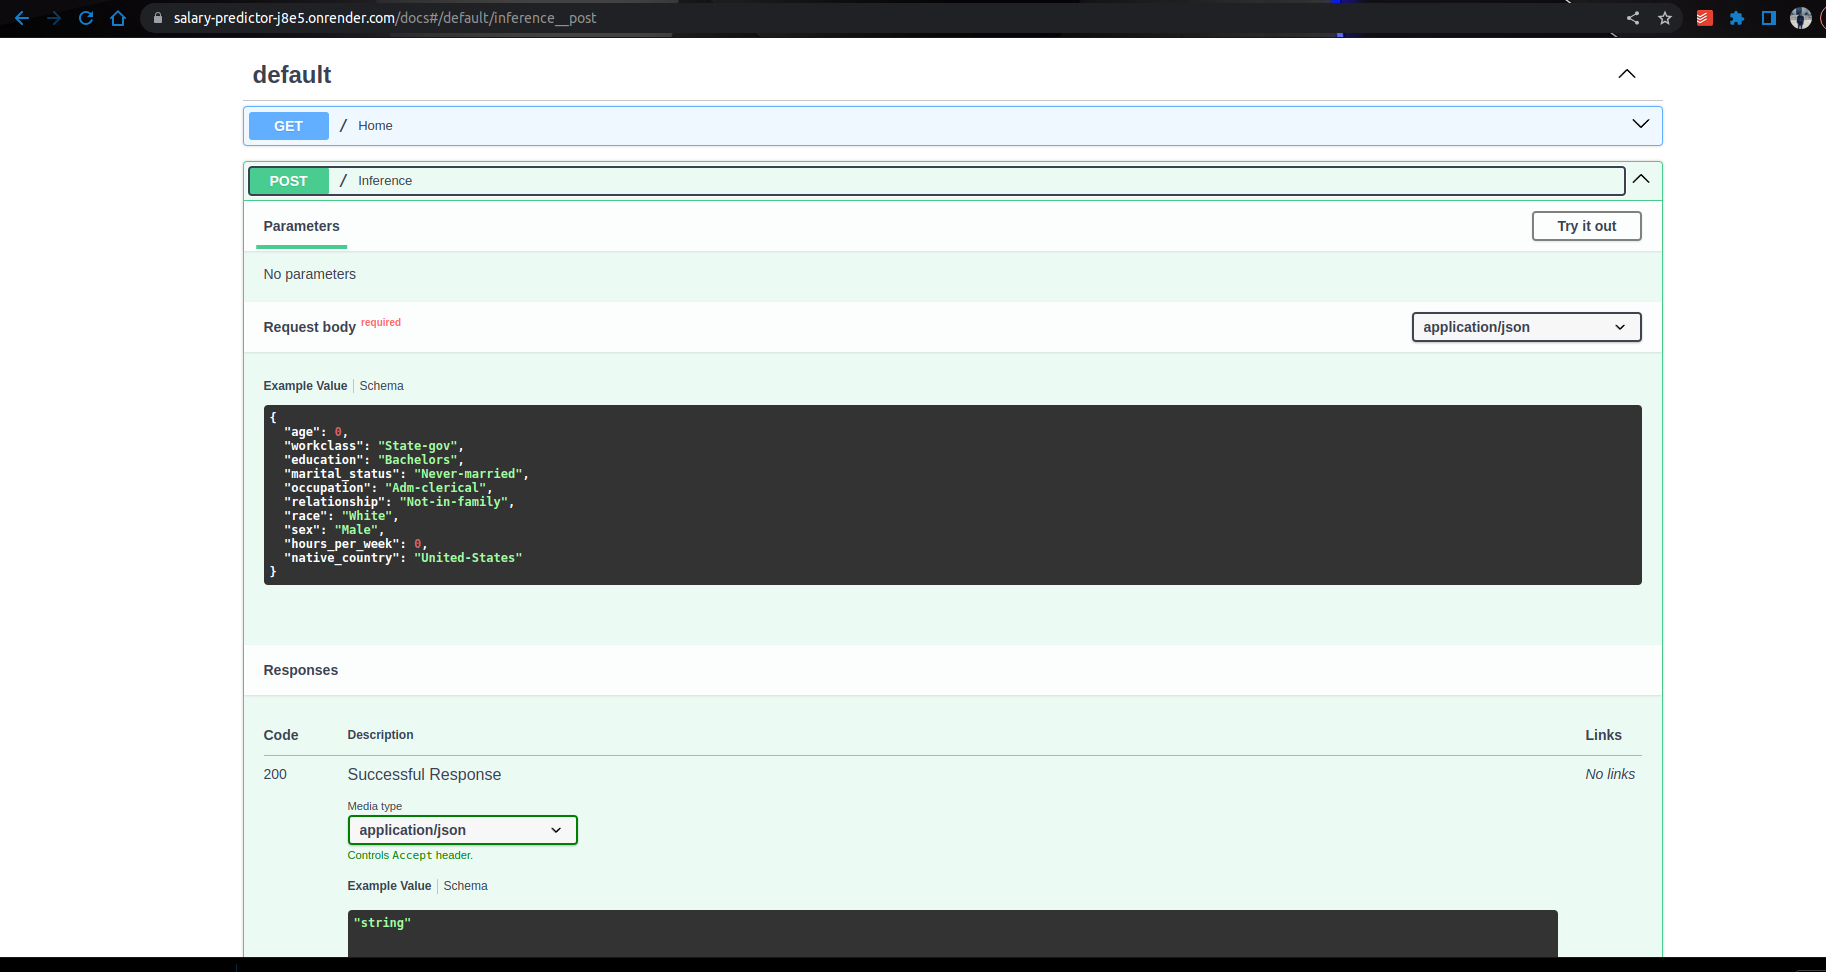
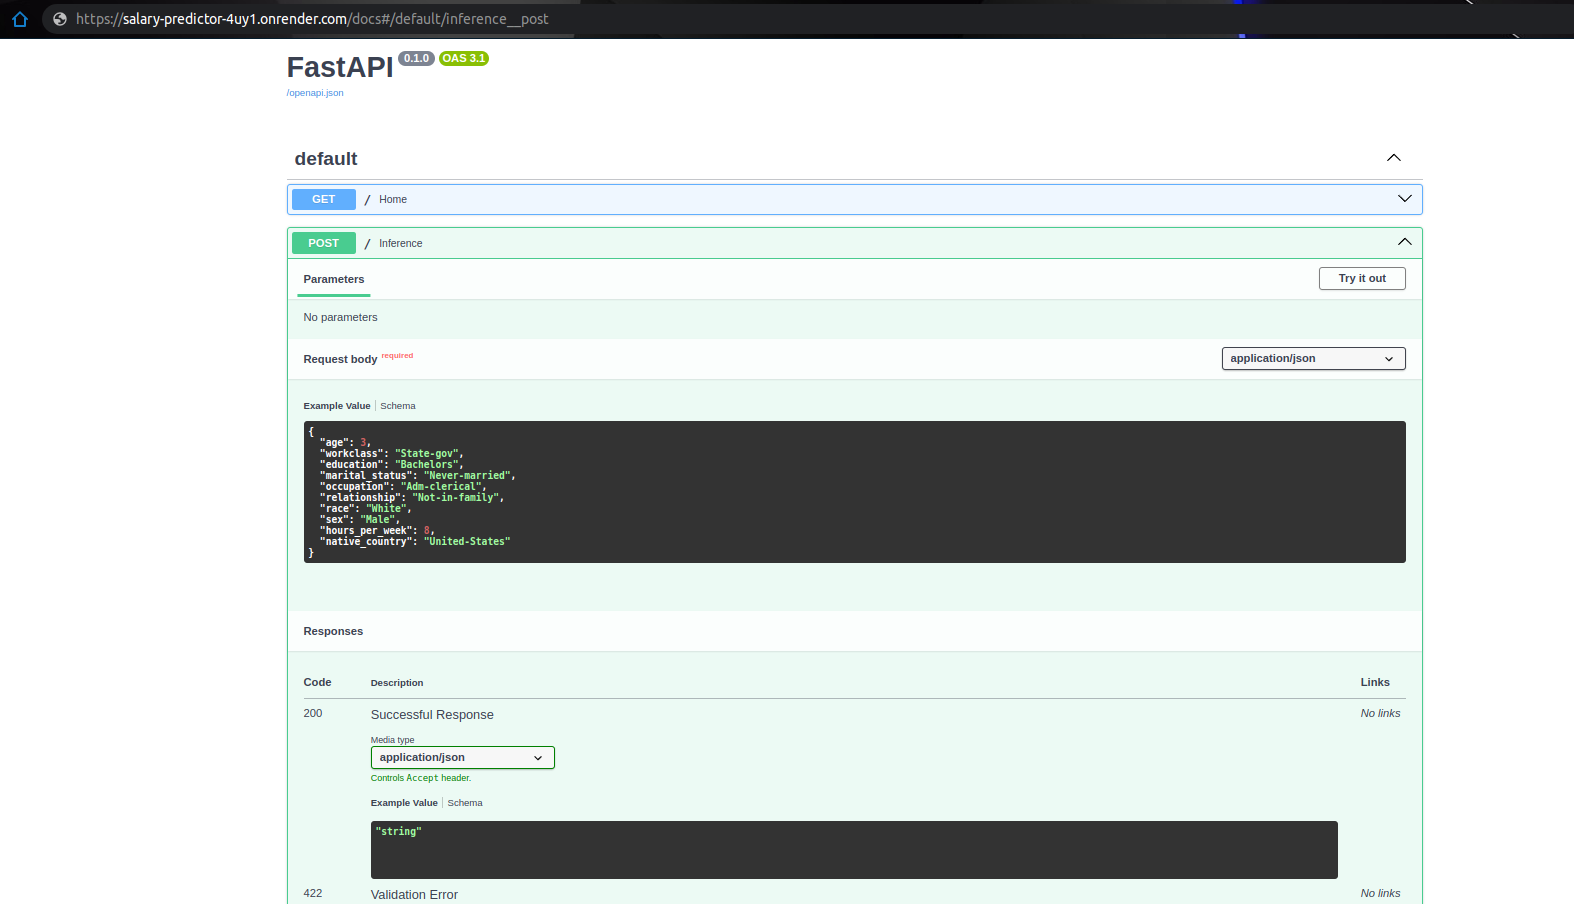
update project

diff --git a/main.py b/main.py
@@ -1,7 +1,7 @@
 # Put the code for your API here.
 
 from fastapi import FastAPI
-from pydantic import BaseModel
+from pydantic import BaseModel, Field
 from typing import Literal
 import src.utils as utils
 import pandas as pd
@@ -9,7 +9,7 @@ from joblib import load
 
 
 class User(BaseModel):
-    age: int
+    age: int = Field(examples=[30,40,65])
     workclass: Literal[
         'State-gov', 'Self-emp-not-inc', 'Private', 'Federal-gov',
         'Local-gov', 'Self-emp-inc', 'Without-pay']
@@ -35,7 +35,7 @@ class User(BaseModel):
         'White', 'Black', 'Asian-Pac-Islander', 'Amer-Indian-Eskimo',
         'Other']
     sex: Literal['Male', 'Female']
-    hours_per_week: int
+    hours_per_week: int = Field(examples=[40, 56])
     native_country: Literal[
         'United-States', 'Cuba', 'Jamaica', 'India', 'Mexico',
         'Puerto-Rico', 'Honduras', 'England', 'Canada', 'Germany', 'Iran',

diff --git a/README.md b/README.md
@@ -4,6 +4,8 @@
 
 Udacity MLOPS nanodegree project to train a model on census data and publish it via API on Render
 
+Github Link for Project: [https://github.com/adityajn105/udacity-mlops/](https://github.com/adityajn105/udacity-mlops)
+
 ## Developer Environment
 1. Have python3.8 installed.
 2. Firstly install all requirements: `pip install -r requirements.txt`
